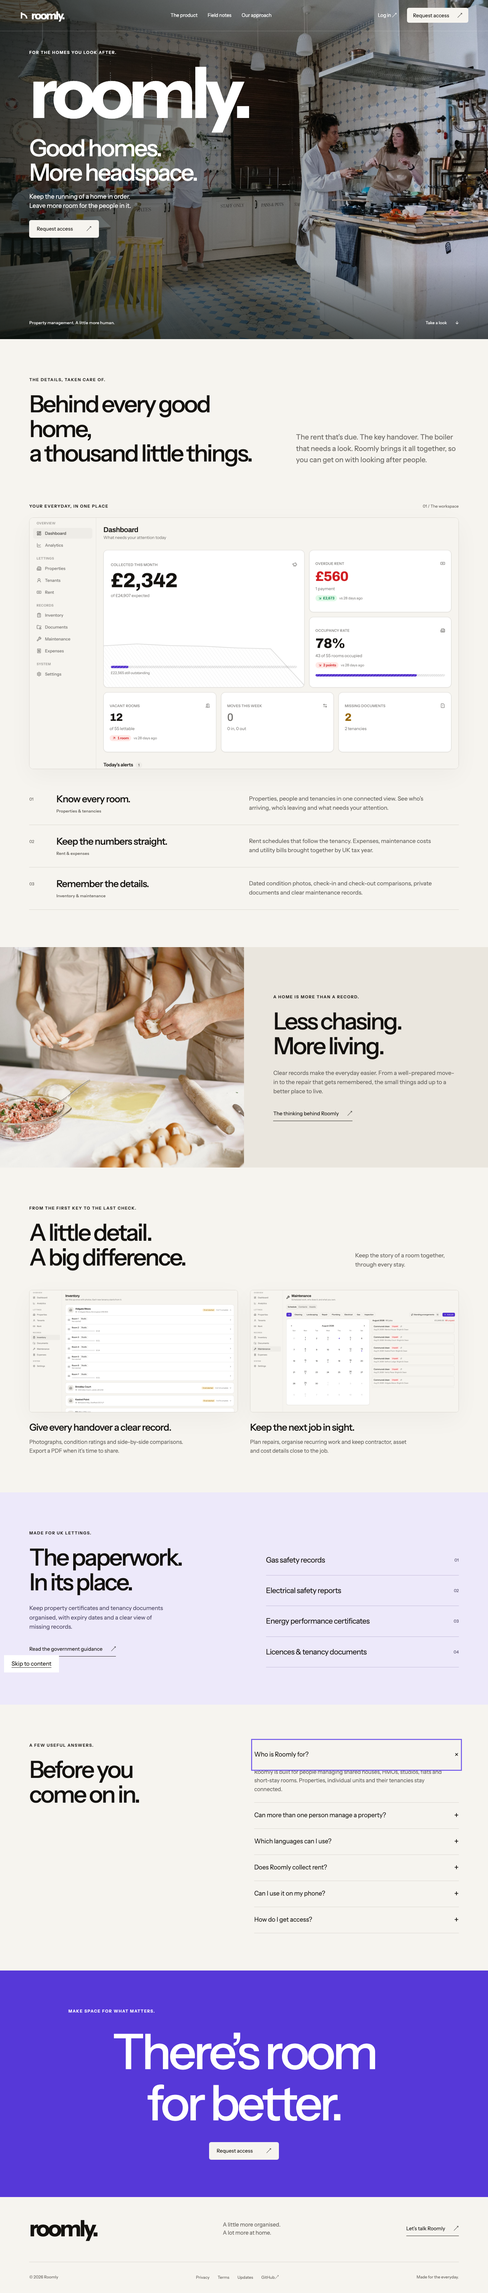
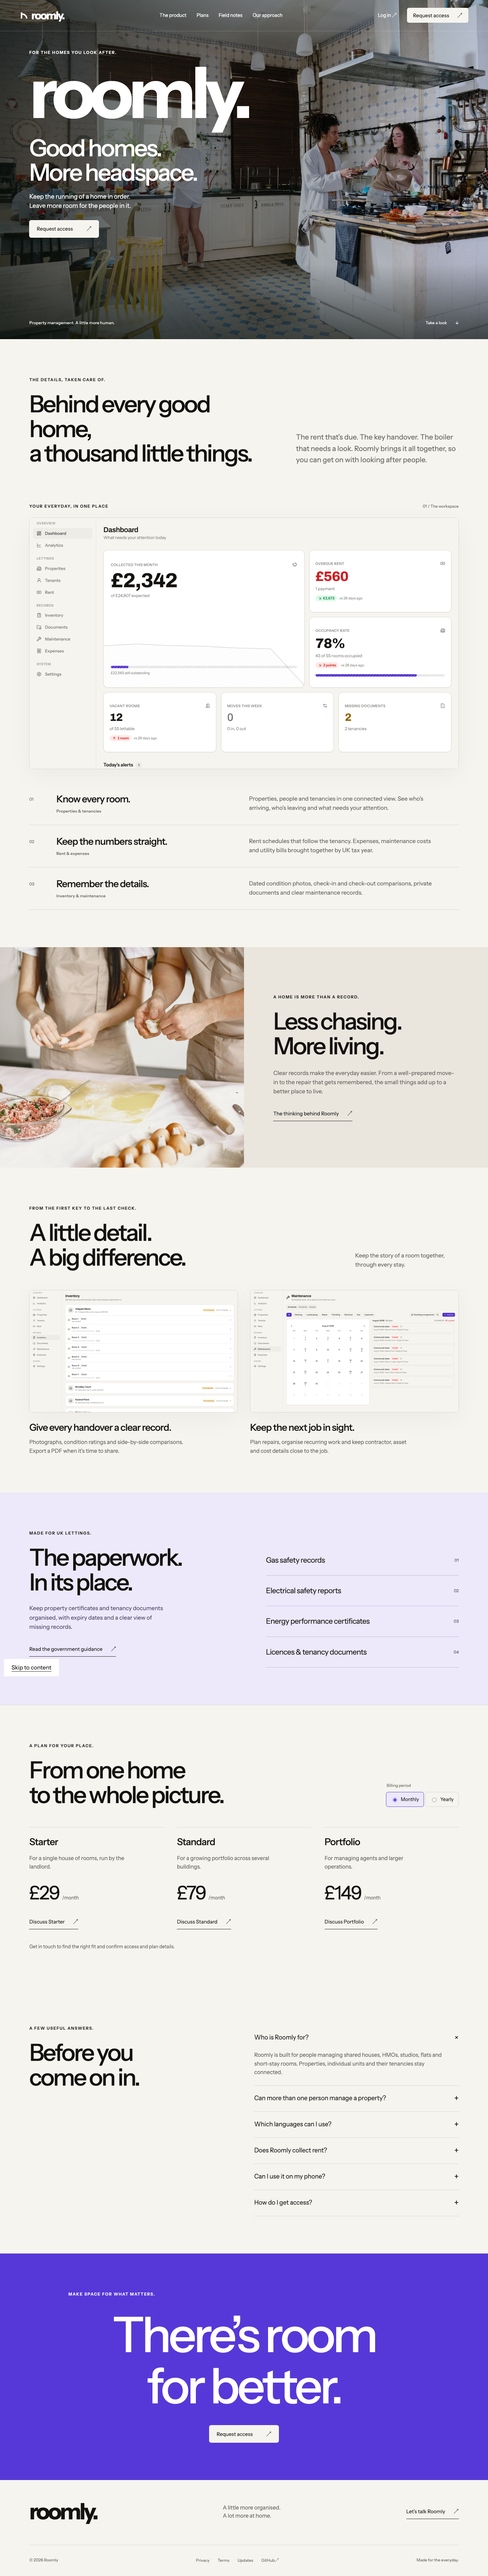
Preserve Roomly plan pricing and billing-period controls

diff --git a/site/src/styles/site.css b/site/src/styles/site.css
@@ -866,3 +866,87 @@ svg {
     margin: 18px 0 23px;
   }
 }
+
+.pricing {
+  border-top: 1px solid #d9d5ce;
+}
+.billing {
+  display: flex;
+  flex-wrap: wrap;
+  gap: 4px;
+  border: 0;
+  margin: 0;
+  padding: 0;
+}
+.billing legend {
+  font-size: 12px;
+  color: #686560;
+  margin-bottom: 10px;
+}
+.billing label {
+  display: flex;
+  align-items: center;
+  gap: 8px;
+  min-height: 44px;
+  padding: 9px 14px;
+  cursor: pointer;
+  border: 1px solid #d9d5ce;
+  border-radius: 6px;
+  font-size: 14px;
+}
+.billing label:has(:checked) {
+  background: #ede9fa;
+  border-color: #5638d8;
+}
+.billing input {
+  accent-color: #5638d8;
+}
+.plan-list {
+  display: grid;
+  grid-template-columns: repeat(3, minmax(0, 1fr));
+  gap: 40px;
+}
+.plan-list article {
+  border-top: 1px solid #d9d5ce;
+  padding-top: 28px;
+}
+.plan-list p {
+  color: #686560;
+  margin-top: 20px;
+  font-size: 16px;
+  min-height: 52px;
+  max-width: 28ch;
+}
+.plan-price {
+  margin-top: 30px;
+  display: flex;
+  flex-wrap: wrap;
+  gap: 8px;
+  align-items: baseline;
+}
+.plan-price > span {
+  font-size: 55px;
+  letter-spacing: -0.05em;
+  line-height: 1.2;
+}
+.plan-price small {
+  font-size: 14px;
+  color: #686560;
+}
+.pricing-note {
+  font-size: 14px;
+  color: #686560;
+  margin-top: 40px;
+}
+@media (max-width: 760px) {
+  .billing {
+    margin-top: 30px;
+  }
+  .plan-list {
+    grid-template-columns: 1fr;
+  }
+  .plan-list p {
+    min-height: 0;
+    max-width: 100%;
+  }
+}

diff --git a/tests/site/website.spec.ts b/tests/site/website.spec.ts
@@ -138,6 +138,11 @@ test("keyboard navigation, contact intent, FAQ and reduced motion", async ({
       /^mailto:.*subject=Roomly%20access$/,
     );
   }
+  await page.getByLabel('Yearly', {exact:true}).check();
+  await expect(page.locator('[data-monthly="29"]')).toHaveText('£290');
+  await expect(page.locator('[data-monthly="149"]')).toHaveText('£1,490');
+  await page.getByLabel('Monthly', {exact:true}).check();
+  await expect(page.locator('[data-monthly="29"]')).toHaveText('£29');
   await page.screenshot({
     path: "docs/images/website-mobile.png",
     fullPage: true,

diff --git a/docs/ROOMLY_GITHUB_INTEGRATION_PLAN.md b/docs/ROOMLY_GITHUB_INTEGRATION_PLAN.md
@@ -22,7 +22,7 @@ The GitHub source has 26 migrations, operational organisation isolation, three U
 
 ## 2. Product structure: one product, three surfaces
 
-1. **Website:** explains Roomly, shows genuine product screens, offers demo access, and sends existing users to login.
+1. **Website:** explains Roomly, shows genuine product screens, offers access by enquiry, and sends existing users to login.
 2. **Manager workspace:** all existing portfolio operations, with clearer navigation and the new onboarding, handbook, invitations and resident-question tools.
 3. **Resident Home:** invitation-based access to essentials, guide, agreements, first-week tasks, Ask Roomly and the resident's repair reports.
 
@@ -157,12 +157,12 @@ The inspected website already describes property operations, rent, expenses, inv
 - Present the whole journey: manage the property, welcome residents, support everyday life.
 - Show two clear audiences: property managers and residents. Retain the original operations feature coverage and add onboarding, home guides, invitations, Ask and repair reporting.
 - Replace screenshots with the verified integrated application, including desktop and mobile. Do not imply the standalone local demo is already the live product.
-- Fix CTA semantics: the current hero control labelled “Log in” opens a demo-request email, while navigation login opens the app. Login, Request a demo and a future Get started action must have distinct, honest destinations.
+- Fix CTA semantics: the current hero control labelled “Log in” opens a demo-request email, while navigation login opens the app. Login, Request access and a future Get started action must have distinct, honest destinations.
 - Preserve blog URLs, build log, About, privacy and terms; create redirects for any deliberate URL change. Maintain metadata, sitemap, canonical URLs, social previews and accessible images/headings.
 - Make pricing, plan comparison and access terms consistent. Local site notes describe the displayed prices/tier allocations as presentation choices; the site displays pricing while describing a demo-access model. Do not silently turn those figures into billing rules. Preserve current amounts during the design pass and clearly distinguish actual availability; commercial packaging is a separate owner decision.
 - Explain the resident/AI data flow accurately in privacy copy. Do not repeat categorical legal-compliance claims without review. This is a content verification task, not a claim that the existing policies are legally sufficient.
 - Preserve or reimplement working FAQ/pricing interactions, navigation and reduced-motion behaviour. Check runtime counters rather than assuming initial zero values are final figures.
-- Keep demo access request-based until a real self-service onboarding flow is deployed. No non-functional signup buttons or newly introduced paid subscription flow.
+- Keep access request-based until a real self-service onboarding flow is deployed. No non-functional signup buttons or newly introduced paid subscription flow.
 - Keep the app and site as separate Vercel projects, both linked to the canonical repository with appropriate root/build settings. Existing URLs remain usable; custom domains are an optional later configuration.
 
 ## 8. GitHub sturdiness and release gates
@@ -200,4 +200,4 @@ The site inventory and content draft can proceed while app integration is develo
 
 Recommended direction: one canonical GitHub repository; two deployments; preserve all original operations; use the new UI/onboarding as the design and flow reference; separate resident permissions; stage the rollout.
 
-The two product decisions worth discussing are commercial availability (request-a-demo versus genuinely open signup) and how prominently the website should balance manager operations with resident experience. Neither requires changing or discarding existing features. Default for this plan: retain request-a-demo and give manager operations the lead, with resident experience presented as a connected benefit.
+The two product decisions worth discussing are commercial availability (request-a-demo versus genuinely open signup) and how prominently the website should balance manager operations with resident experience. Neither requires changing or discarding existing features. Default for this plan: retain request-based access and give manager operations the lead, with resident experience presented as a connected benefit.

diff --git a/site/README.md b/site/README.md
@@ -21,7 +21,7 @@ Node.js 24. No credentials, database or backend is required. `Request access` op
 
 All previous public page paths are preserved. The existing website's author-owned article content was migrated from commit `02a409f` in the local `roomly-site` repository. Its original checkout and history remain intact. This build does not copy the prior PipelinePro template runtime, layout or reset scripts. Changes to former demo-specific public copy follow the owner's September 2026 direction to keep that context in GitHub documentation.
 
-Pricing and plan allocations in the old presentation were invented, as recorded in its source notes. This site offers access by enquiry and does not assert subscription entitlements or accept payment. UK document categories describe record organisation, not Roomly accreditation or legal compliance certification. Reference: [GOV.UK landlord safety responsibilities](https://www.gov.uk/private-renting/your-landlords-safety-responsibilities).
+Pricing and plan allocations in the old presentation were invented, as recorded in its source notes. The existing Starter, Standard and Portfolio amounts (£29/£79/£149 monthly; £290/£790/£1,490 yearly) and working billing-period toggle are retained. Access is by enquiry; there is no checkout or implemented subscription entitlement system. These presentation prices are not evidence of a commercially launched service. UK document categories describe record organisation, not Roomly accreditation or legal compliance certification. Reference: [GOV.UK landlord safety responsibilities](https://www.gov.uk/private-renting/your-landlords-safety-responsibilities).
 
 ## Photography and screenshots
 
